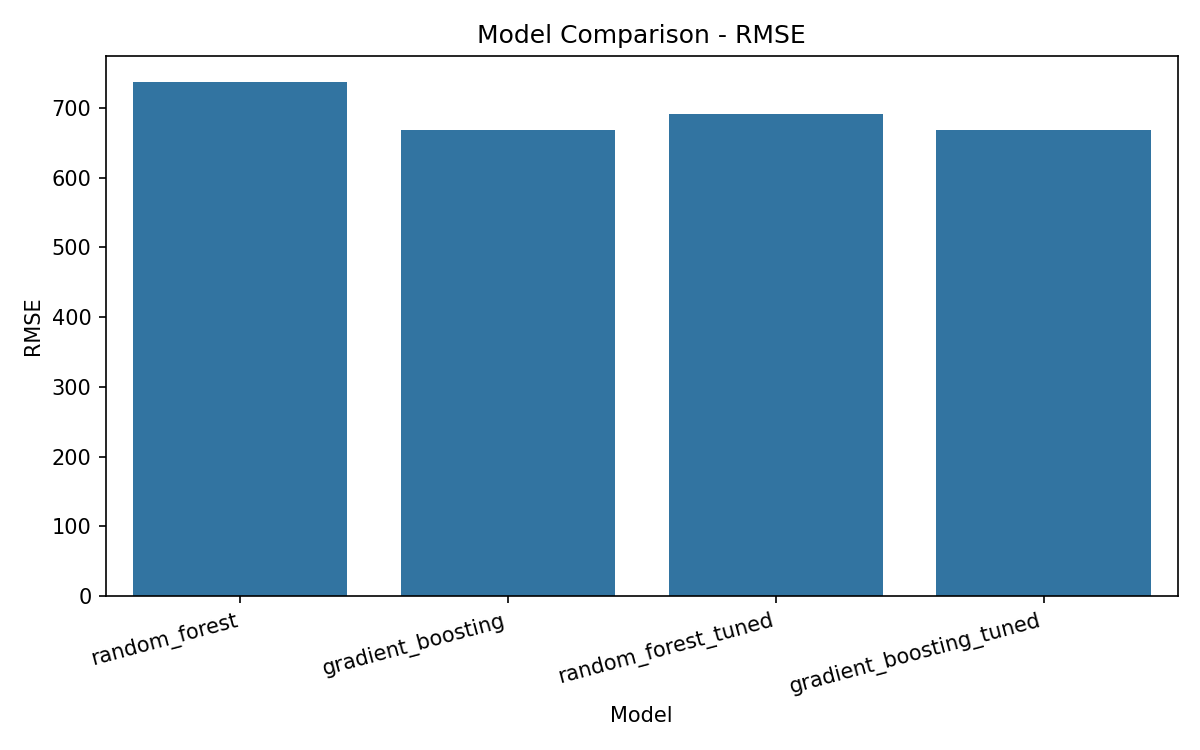
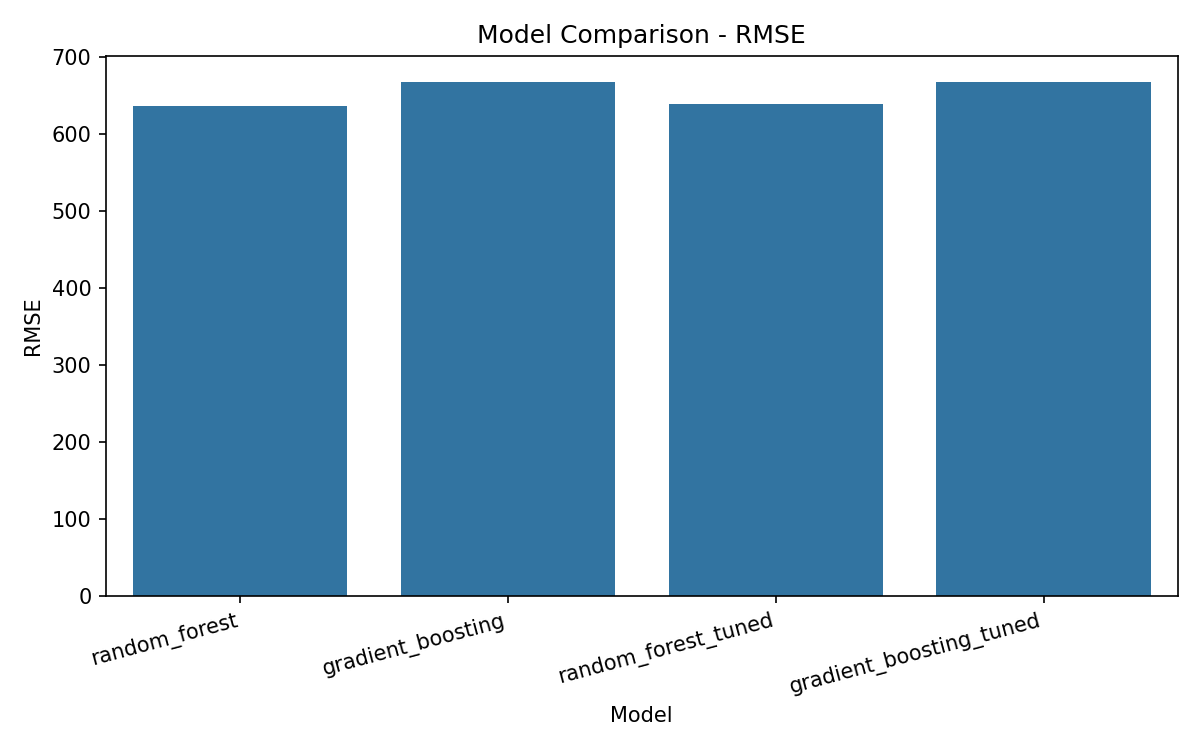
Revert Random Forest to unconstrained configuration for best accuracy, since trained model files are not tracked in version control

diff --git a/src/models/model_trainer.py b/src/models/model_trainer.py
@@ -19,10 +19,9 @@ class ModelTrainer:
         self.random_state = random_state
       
         self.models: Dict[str, object] = {
-            "random_forest": RandomForestRegressor(
-                n_estimators=100, max_depth=12,min_samples_leaf=5,
-    min_samples_split=10, random_state=random_state, n_jobs=-1
-            ),
+           "random_forest": RandomForestRegressor(
+    n_estimators=300, max_depth=None, random_state=random_state, n_jobs=-1
+),
             "gradient_boosting": GradientBoostingRegressor(
                 n_estimators=200, max_depth=3, learning_rate=0.1, random_state=random_state
             ),

diff --git a/src/config.py b/src/config.py
@@ -50,11 +50,11 @@ CV_FOLDS = 5
 # Hyperparameter grids
 
 RANDOM_FOREST_PARAM_GRID = {
-    "n_estimators": [100, 150],
-    "max_depth": [8, 12, 15],
-    "min_samples_leaf": [3, 5, 10],
-    "min_samples_split": [10, 20],
+    "n_estimators": [100, 200],
+    "max_depth": [None, 8, 15],
+    "min_samples_split": [2, 5],
 }
+
 GRADIENT_BOOSTING_PARAM_GRID = {
     "n_estimators": [100, 200],
     "max_depth": [2, 3],
